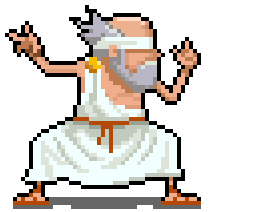
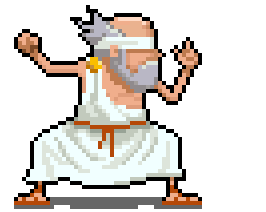
[수정] 할아범 공격 애니메이션 수정

diff --git a/Classes/game/object/Man.cpp b/Classes/game/object/Man.cpp
@@ -20,11 +20,12 @@ static const vector<string> ANIM_IDLE_FILES({
 static const float ANIM_IDLE_DELAY_PER_UNIT = 0.5f;
 
 static const vector<string> ANIM_ATTACK_FILES({
-    DIR_IMG_GAME + "RSP_avatar_idle1.png",
-    DIR_IMG_GAME + "RSP_avatar_attack.png",
+    DIR_IMG_GAME + "RSP_avatar_attack1.png",
+    DIR_IMG_GAME + "RSP_avatar_attack2.png",
+    // DIR_IMG_GAME + "RSP_avatar_idle1.png",
 });
 
-static const float ANIM_ATTACK_PER_UNIT = 0.05f;
+static const float ANIM_ATTACK_PER_UNIT = 0.0666f;
 
 static const string SCHEDULER_FEVER = "SCHEDULER_FEVER";
 static const string SCHEDULER_FEVER_END_ALERT = "SCHEDULER_FEVER_END_ALERT";
